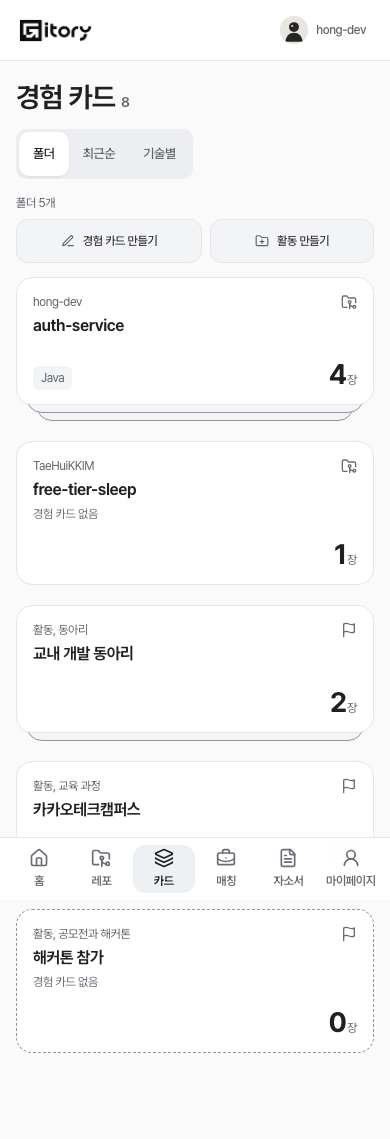
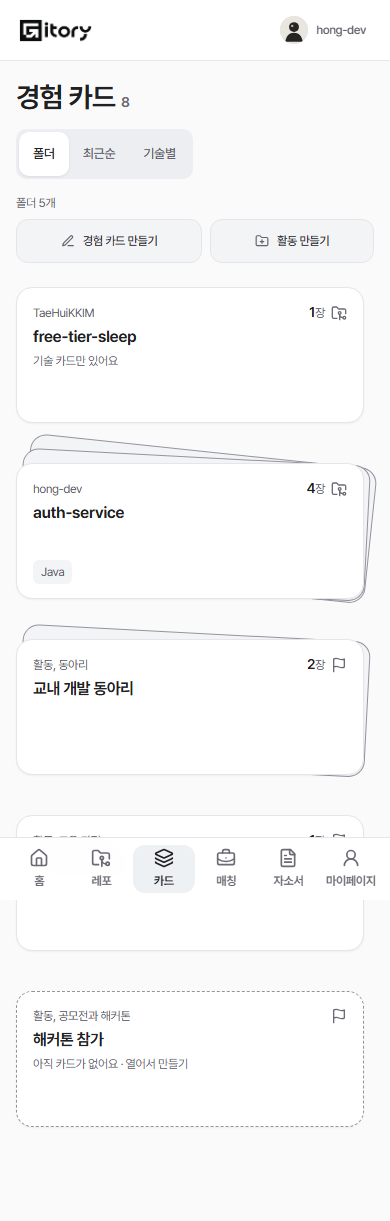
test: 폴더 앞판 시험·e2e 와 화면 사진, 설명 문서 갱신

diff --git a/frontend/e2e/activities-folders-522.spec.ts b/frontend/e2e/activities-folders-522.spec.ts
@@ -89,7 +89,7 @@ test('확정 카드가 든 활동을 지우면 확정 카드도 지워진다고 
   await expect(page.locator('.experience-item')).toHaveCount(6); // 8장 중 활동 카드 2장이 함께 지워졌다
 });
 
-test('폴더는 키보드로 열고, 위에 두면 색만 바뀐다', async ({ page }) => {
+test('폴더는 키보드로 열고, 위에 두면 테두리 색이 바뀌고 부채꼴이 조금 벌어진다', async ({ page }) => {
   await loginAsDemo(page);
   await page.goto('/cards');
   const auth = folder(page, /^레포 hong-dev, auth-service/);
@@ -98,13 +98,15 @@ test('폴더는 키보드로 열고, 위에 두면 색만 바뀐다', async ({ p
     const back = el.querySelector('.folder__back')!, front = el.querySelector('.folder__front')!;
     return { layer: getComputedStyle(back, '::before').borderTopColor, layer2: getComputedStyle(back, '::after').borderTopColor, border: getComputedStyle(front).borderColor, box: JSON.stringify(el.getBoundingClientRect()), transform: getComputedStyle(el).transform };
   };
-  const before = await auth.evaluate(read);
+  const fan = (el: Element) => getComputedStyle(el.querySelector('.folder__back')!, '::before').transform;
+  const before = await auth.evaluate(read), fanBefore = await auth.evaluate(fan);
   await auth.hover();
   const after = await auth.evaluate(read);
+  await expect.poll(() => auth.evaluate(fan)).not.toBe(fanBefore); // 부채꼴이 조금 더 벌어진다
   expect(after.border).not.toBe(before.border); // 맨 위 카드 테두리
   expect(after.layer).not.toBe(before.layer); // 겹친 카드 테두리
   expect(after.layer2).toBe(after.layer); // 겹친 카드는 한 색
-  expect(after.box).toBe(before.box); // 움직임 없음
+  expect(after.box).toBe(before.box); // 폴더 자리는 그대로
   expect(after.transform).toBe(before.transform);
 
   await page.mouse.move(0, 0);
@@ -133,12 +135,12 @@ for (const width of [1440, 390, 320]) for (const theme of ['light', 'dark'] as c
     for (const box of await folders.evaluateAll((els) => els.map((el) => el.getBoundingClientRect().toJSON()))) {
       expect(box.height).toBeGreaterThanOrEqual(44); expect(box.width).toBeGreaterThanOrEqual(44); expect(box.right).toBeLessThanOrEqual(width);
     }
-    // 앞판의 글은 읽을 수 있는 대비다(숫자·소유자·경험 카드 없음·기술 태그)
+    // 앞판의 글은 읽을 수 있는 대비다(장 수·소유자·안내 한 줄·기술 태그)
     for (const value of await page.evaluate(readContrasts, [
       { text: '.folder__owner', surface: '.folder__front' }, { text: '.folder__name', surface: '.folder__front' }, { text: '.folder__note', surface: '.folder__front' },
       { text: '.folder__count-num', surface: '.folder__front' }, { text: '.folder__tag', surface: '.folder__tag' },
     ])) expect(value).toBeGreaterThanOrEqual(4.5);
-    // 활동 폴더 앞판 첫 줄은 '활동, 종류'이고, 경험 카드가 없는 폴더에만 '경험 카드 없음'이 있다
+    // 활동 폴더 앞판 첫 줄은 '활동, 종류'이고, 안내 한 줄은 기술 카드만 있는 폴더와 빈 폴더에만 있다
     await expect(page.locator('.folder__note')).toHaveCount(2);
     await expect(page.getByText('활동, 동아리', { exact: true })).toBeVisible();
     await page.screenshot({ path: `${SHOTS}/folders-${width}-${theme}.png`, fullPage: true, animations: 'disabled' });

diff --git a/frontend/src/test/card-folders-522.test.ts b/frontend/src/test/card-folders-522.test.ts
@@ -1,7 +1,7 @@
 import { describe, expect, it } from 'vitest';
 import { Activity } from '@/api/activities';
 import { CardSummary } from '@/api/schemas';
-import { buildFolders, deckLayers, folderLabel, lacksExperience, topTechs } from '@/lib/cardFolders';
+import { buildFolders, deckLayers, folderLabel, folderNote, topTechs } from '@/lib/cardFolders';
 
 const card = (id: string, over: Record<string, unknown> = {}) => CardSummary.parse({
   id, kind: 'TECH', status: 'DRAFT', title: id, versionNo: 1, areas: [], techs: [], repo: null, activity: null,
@@ -47,9 +47,9 @@ describe('경험 카드 폴더 묶기 (#522)', () => {
     expect(buildFolders([card('x')], []).map((f) => f.kind)).toEqual(['direct']);
   });
 
-  it('경험 카드 없음은 정성 카드가 한 장도 없는 레포·활동 폴더에만 붙는다. 직접 쓴 카드 폴더는 해당 없다', () => {
-    const byKey = Object.fromEntries(buildFolders(cards, activities).map((f) => [f.key, lacksExperience(f)]));
-    expect(byKey).toEqual({ 'activity:a_empty': true, 'repo:r_fts': true, 'activity:a_club': false, 'repo:r_auth': false, direct: false });
+  it('앞판 안내 한 줄: 빈 폴더는 만들러 들어오게, 기술 카드만 있는 레포·활동 폴더는 그 사실을 적고, 경험 카드가 있거나 직접 쓴 카드 폴더는 없다', () => {
+    const byKey = Object.fromEntries(buildFolders(cards, activities).map((f) => [f.key, folderNote(f)]));
+    expect(byKey).toEqual({ 'activity:a_empty': '아직 카드가 없어요 · 열어서 만들기', 'repo:r_fts': '기술 카드만 있어요', 'activity:a_club': null, 'repo:r_auth': null, direct: null });
   });
 
   it('앞판 기술은 가장 많은 카드에 붙은 둘이다. 같으면 최근 카드의 것이 앞이고, 태그가 없으면 비어 있다(지어내지 않는다)', () => {
@@ -80,11 +80,11 @@ describe('경험 카드 폴더 묶기 (#522)', () => {
     expect(both.map((f) => f.key)).toEqual(['repo:r_auth']);
   });
 
-  it('링크 이름에 소유자, 이름, 장 수, 경험 카드 없음, 기술이 모두 들어 있다(보이는 글이 이름에 들어 있어야 한다)', () => {
+  it('링크 이름에 소유자, 이름, 장 수, 안내 한 줄, 기술이 모두 들어 있다(보이는 글이 이름에 들어 있어야 한다)', () => {
     const folders = Object.fromEntries(buildFolders(cards, activities).map((f) => [f.key, f]));
     expect(folderLabel(folders['repo:r_auth'])).toBe('레포 hong-dev, auth-service, 카드 2장, 기술 Java, Spring');
-    expect(folderLabel(folders['repo:r_fts'])).toBe('레포 TaeHuiKKIM, free-tier-sleep, 카드 1장, 경험 카드 없음, 기술 TypeScript');
-    expect(folderLabel(folders['activity:a_empty'])).toBe('활동, 공모전과 해커톤, 해커톤 참가, 카드 0장, 경험 카드 없음');
+    expect(folderLabel(folders['repo:r_fts'])).toBe('레포 TaeHuiKKIM, free-tier-sleep, 카드 1장, 기술 카드만 있어요, 기술 TypeScript');
+    expect(folderLabel(folders['activity:a_empty'])).toBe('활동, 공모전과 해커톤, 해커톤 참가, 카드 0장, 아직 카드가 없어요 · 열어서 만들기');
     expect(folderLabel(folders['activity:a_club'])).toBe('활동, 동아리, 교내 개발 동아리, 카드 2장');
     expect(folderLabel(folders.direct)).toBe('레포와 활동 없이 쓴 카드, 직접 쓴 카드, 카드 1장');
   });

diff --git a/frontend/src/test/activities-pages-522.test.tsx b/frontend/src/test/activities-pages-522.test.tsx
@@ -31,10 +31,10 @@ const routes = () => [
 ];
 const FOLDERS = {
   auth: '레포 hong-dev, auth-service, 카드 4장, 기술 Java',
-  fts: '레포 TaeHuiKKIM, free-tier-sleep, 카드 1장, 경험 카드 없음',
+  fts: '레포 TaeHuiKKIM, free-tier-sleep, 카드 1장, 기술 카드만 있어요',
   club: '활동, 동아리, 교내 개발 동아리, 카드 2장',
   edu: '활동, 교육 과정, 카카오테크캠퍼스, 카드 1장',
-  contest: '활동, 공모전과 해커톤, 해커톤 참가, 카드 0장, 경험 카드 없음',
+  contest: '활동, 공모전과 해커톤, 해커톤 참가, 카드 0장, 아직 카드가 없어요 · 열어서 만들기',
 };
 const tiles = (root: ParentNode = document) => root.querySelectorAll('.experience-item');
 const button = (name: string | RegExp) => screen.getByRole('button', { name });
@@ -51,8 +51,12 @@ describe('경험 카드 목록의 폴더 보기 (#522)', () => {
     expect(screen.getByRole('link', { name: FOLDERS.contest })).toHaveAttribute('href', '/cards/activity/act_contest');
     expect(screen.getByRole('radio', { name: '폴더' })).toHaveAttribute('aria-checked', 'true');
     expect(tiles()).toHaveLength(0);
-    // 앞판 글: 경험 카드가 없는 폴더에만 '경험 카드 없음', 장식(뒤에 겹친 카드)은 접근성 트리에서 뺀다
-    expect(screen.getAllByText('경험 카드 없음')).toHaveLength(2);
+    // 앞판 글: 기술 카드만 있는 폴더와 빈 폴더에 안내 한 줄, 장식(뒤에 겹친 카드)은 접근성 트리에서 뺀다
+    expect(screen.getByText('기술 카드만 있어요')).toBeInTheDocument();
+    expect(screen.getByText('아직 카드가 없어요 · 열어서 만들기')).toBeInTheDocument();
+    // 장 수는 종류 아이콘 옆 작은 글이고, 빈 폴더에는 없다(0장 대신 안내 한 줄이 말한다)
+    expect(auth.querySelector('.folder__head .folder__count')).toHaveTextContent(/^4장$/);
+    expect(screen.getByRole('link', { name: FOLDERS.contest }).querySelector('.folder__count')).toBeNull();
     expect(auth.querySelector('.folder__back')).toHaveAttribute('aria-hidden', 'true');
     // 뒤로 겹쳐 보이는 카드는 장 수를 따르고(4장 두 겹, 2장 한 겹, 1장 없음), 카드가 없는 폴더만 점선(data-empty)이다
     expect(auth).toHaveAttribute('data-deck', '2');

diff --git a/frontend/docs/2026-10-31-ACTIVITIES_AND_FOLDERS.md b/frontend/docs/2026-10-31-ACTIVITIES_AND_FOLDERS.md
@@ -20,20 +20,21 @@ BE #477(활동 API, 계약 #475 1·2절)이 머지됐는데 화면이 없었다.
 
 시안(성준 님, 이슈 댓글)을 베끼지 않고 앱의 토큰과 규칙에 맞췄다.
 
-- 한 폴더 = 링크 하나. 키보드로 열고, 접근성 이름에 소유자·이름·장 수·`경험 카드 없음`·기술이 모두 들어간다(`folderLabel`). 뒤에 겹친 카드와 종류 아이콘은 장식이라 접근성 트리에서 뺀다.
-- 모양은 카드 묶음이다. 맨 위 카드 한 장(경험 카드 타일과 같은 바탕·테두리·모서리)이 보이고, 그 뒤로 겹쳐 보이는 카드 수는 장 수를 따른다(`deckLayers`: 1장은 겹침 없음, 2장은 한 겹, 3장 이상은 두 겹). 카드가 한 장도 없는 폴더(활동만)는 점선 테두리다. 정확한 수는 큰 숫자가 말하고 겹침은 장식이다. 첫 줄 오른쪽 작은 아이콘이 레포(`FolderGit2`), 활동(`Flag`), 직접 쓴 카드(`PenLine`)를 가른다.
-- 색은 토큰만. 맨 위 카드 `--bg-surface` + `--border-default`, 뒤에 겹친 카드 `--bg-subtle` + `--border-strong`, 숫자 `--text-accent`. 올리거나 키보드로 닿으면 모든 카드 테두리가 `--border-selected`로 **색만** 바뀐다. 다크 모드는 같은 토큰이고, 폴더는 모두 같은 색 하나다.
+- 한 폴더 = 링크 하나. 키보드로 열고, 접근성 이름에 소유자·이름·장 수·안내 한 줄·기술이 모두 들어간다(`folderLabel`). 뒤에 겹친 카드와 종류 아이콘은 장식이라 접근성 트리에서 뺀다.
+- 모양은 부채꼴 카드 묶음이다. 맨 위 카드 한 장(경험 카드 타일과 같은 바탕·테두리·모서리)이 보이고, 뒤로 겹친 카드는 아래쪽 오른편(`transform-origin: 85% 100%`)을 축으로 3°·6° 돌아가 모서리가 위와 오른쪽으로 삐져나온다. 겹친 카드 수는 장 수를 따른다(`deckLayers`: 1장은 겹침 없음, 2장은 한 겹 3°, 3장 이상은 두 겹 3°·6°). 카드가 한 장도 없는 폴더(활동만)는 점선 테두리다. 첫 줄 오른쪽 작은 아이콘이 레포(`FolderGit2`), 활동(`Flag`), 직접 쓴 카드(`PenLine`)를 가른다.
+- 겹친 카드가 삐져나올 자리(위 10px, 오른쪽 10px, 아래 8px)는 겹침이 없는 폴더에도 똑같이 비워 둔다. 장 수에 따라 맨 위 카드 크기가 달라지면 한 줄의 폴더 높이가 들쭉날쭉해진다.
+- 색은 토큰만. 맨 위 카드 `--bg-surface` + `--border-default`, 뒤에 겹친 카드 `--bg-subtle` + `--border-strong`. 올리거나 키보드로 닿으면 모든 카드 테두리가 `--border-selected`로 바뀌고, 부채꼴이 4.5°·9°로 조금 더 벌어진다(0.15초, 움직임 줄이기 설정이면 바로). 폴더 자체의 자리와 크기는 그대로다. 다크 모드는 같은 토큰이고, 폴더는 모두 같은 색 하나다.
 - 첫 줄은 레포면 소유자, 활동이면 `활동, 종류`. 이름은 두 줄까지.
-- 오른쪽 아래 큰 숫자는 서버가 준 카드를 센 전체 장 수다(기술 카드와 경험 카드 합). 왼쪽 아래는 가장 많은 카드에 붙은 기술 둘이고, 카드에 태그가 없으면 비어 있다(지어내지 않는다).
-- `경험 카드 없음`은 정성 카드(경험 카드)가 한 장도 없는 레포·활동 폴더에만 연한 글씨로 적는다. 시안에서도 `2장`이면서 `경험 카드 없음`인 레포가 있어, 이 글은 "전체 0장"이 아니라 "경험 카드를 더 쓸 곳"이라는 뜻으로 읽었다.
-- 격자는 `repeat(auto-fill, minmax(min(240px, 100%), 1fr))`. 1440에서는 4열, 390과 320에서는 한 줄에 폴더 하나.
+- 장 수는 첫 줄 오른쪽 종류 아이콘 옆에 작게(`4장`) 적는다. 서버가 준 카드를 센 전체 장 수다(기술 카드와 경험 카드 합). 겹침이 이미 많고 적음을 보여 주므로, 숫자가 이름보다 먼저 보이지 않게 작게 두었다. 카드가 한 장도 없는 폴더에는 적지 않는다. 아래는 가장 많은 카드에 붙은 기술 둘이고, 카드에 태그가 없으면 비어 있다(지어내지 않는다).
+- 이름 아래 안내 한 줄(`folderNote`)은 둘뿐이다. 카드가 한 장도 없는 폴더는 `아직 카드가 없어요 · 열어서 만들기`, 정성 카드(경험 카드)가 한 장도 없는 레포·활동 폴더는 `기술 카드만 있어요`. 둘 다 아니면 적지 않는다. 시안에서도 `2장`이면서 경험 카드가 없는 레포가 있어, 이 글은 "전체 0장"이 아니라 "경험 카드를 더 쓸 곳"이라는 뜻으로 읽었다.
+- 격자는 `repeat(auto-fill, minmax(min(300px, 100%), 1fr))`. 1440에서는 3열, 390과 320에서는 한 줄에 폴더 하나. 타일이 커야 이름이 주인공이 되고 부채꼴 겹침이 어지럽지 않다.
 - 후보 보드 버튼은 앞판에서 폴더 안으로 옮겼다. 활동 폴더에는 없다(레포만).
 
 ## 판단
 
 | 질문 | 정한 것과 이유 |
 | --- | --- |
-| 레포도 활동도 없는 카드(직접 작성)는? | `직접 쓴 카드` 폴더 하나에 모은다. 카드를 폴더 밖에 흘리지 않으려는 것이고, 이름은 이전 '레포별' 묶음의 이름을 그대로 썼다. 카드가 있을 때만 만들고 맨 아래에 둔다. 앞판 첫 줄은 `레포와 활동 없이 쓴 카드`. 이 폴더에는 `경험 카드 없음`을 달지 않는다(레포·활동처럼 더 쓸 곳이 아니라서) |
+| 레포도 활동도 없는 카드(직접 작성)는? | `직접 쓴 카드` 폴더 하나에 모은다. 카드를 폴더 밖에 흘리지 않으려는 것이고, 이름은 이전 '레포별' 묶음의 이름을 그대로 썼다. 카드가 있을 때만 만들고 맨 아래에 둔다. 앞판 첫 줄은 `레포와 활동 없이 쓴 카드`. 이 폴더에는 `기술 카드만 있어요`를 달지 않는다(레포·활동처럼 더 쓸 곳이 아니라서) |
 | 카드가 한 장도 없는 레포는? | 폴더를 만들지 않는다. 레포 화면(`/repos`)과 후보 보드가 맡는다. 활동은 카드가 없어도 폴더를 만든다(그래야 그 안에서 첫 카드를 만든다) |
 | `activity` 가 생략된 이전 서버는? | 레포 없는 카드를 활동 밖으로 본다. 그 서버에는 활동 자체가 없다. 레포 정보(`repo`)가 아예 없으면 지금처럼 폴더 보기를 숨기고 최근순으로 본다 |
 | 레포와 활동이 함께 온 카드는? | 계약상 없다. 오면 레포에만 센다(두 폴더에 겹쳐 세지 않는다) |
